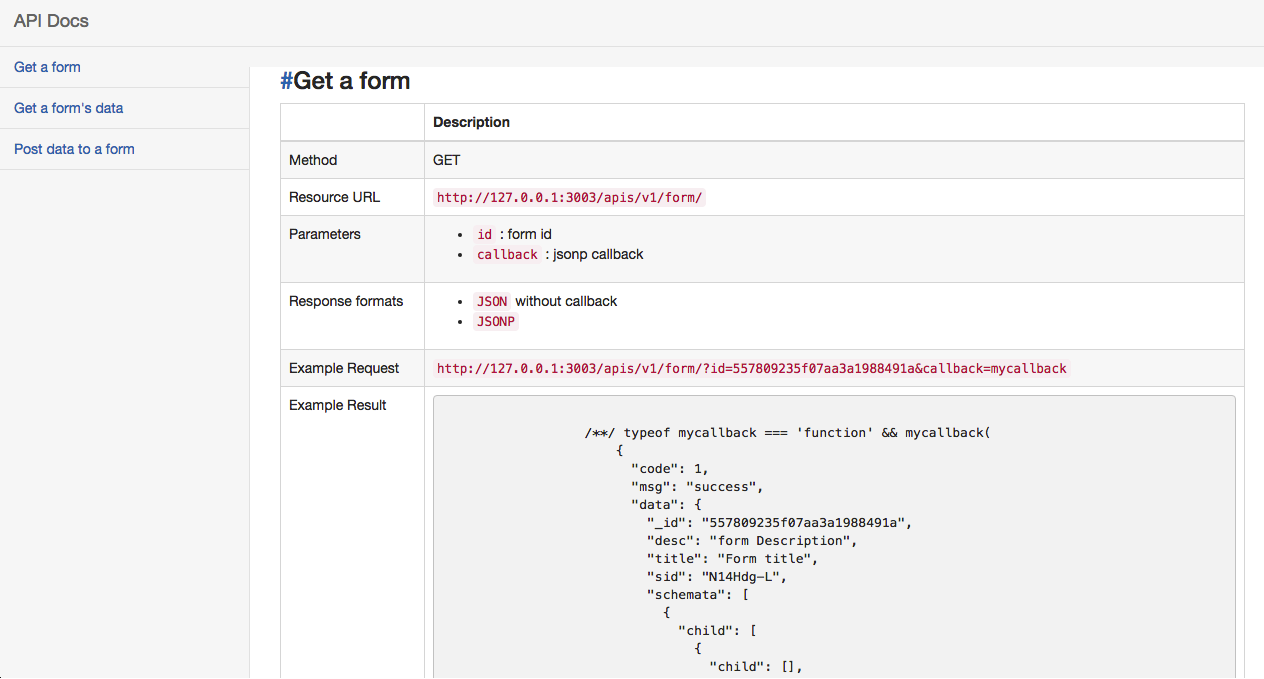
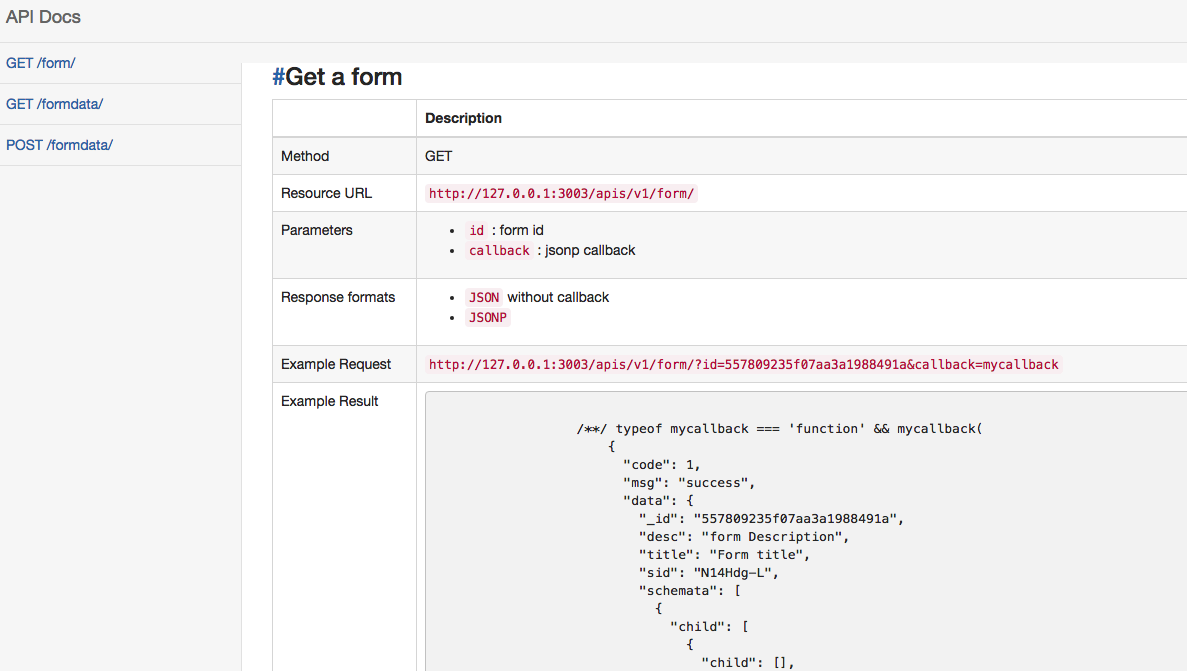
apidocs

diff --git a/public/apidocs.html b/public/apidocs.html
@@ -30,13 +30,13 @@
     <div class="sidebar-nav navbar-collapse">
       <ul class="nav" id="side-menu">
         <li>
-          <a href="#api_form"> GET /form/</a>
+          <a href="#api_get_form"> GET /form/</a>
         </li>
         <li>
-          <a href="#api_formdataget"> GET /formdata/</a>
+          <a href="#api_get_formdata"> GET /formdata/</a>
         </li>
         <li>
-          <a href="#api_formdatapost"> POST /formdata/</a>
+          <a href="#api_post_formdata"> POST /formdata/</a>
         </li>
       </ul>
     </div>
@@ -46,8 +46,8 @@
 </nav>
 
   <div id="page-wrapper">
-    <div id="api_form">
-      <h3><a href="#api_form">#</a>Get a form</h3>
+    <div id="api_get_form">
+      <h3><a href="#api_get_form">#</a>Get a form</h3>
       <div class="table-responsive">
         <table class="table table-bordered table-striped bs-events-table">
           <thead>
@@ -139,8 +139,8 @@
       </div>
     </div>
 
-    <div id="api_formdataget">
-      <h3><a href="#api_formdataget">#</a>Get a form's data</h3>
+    <div id="api_get_formdata">
+      <h3><a href="#api_get_formdata">#</a>Get a form's data</h3>
       <div class="table-responsive">
         <table class="table table-bordered table-striped bs-events-table">
           <thead>
@@ -231,8 +231,8 @@
       </div>
     </div>
 
-    <div id="api_formdatapost">
-      <h3><a href="#api_formdatapost">#</a>Post data to a form</h3>
+    <div id="api_post_formdata">
+      <h3><a href="#api_post_formdata">#</a>Post data to a form</h3>
       <div class="table-responsive">
         <table class="table table-bordered table-striped bs-events-table">
           <thead>
